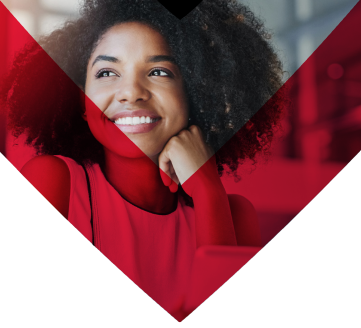
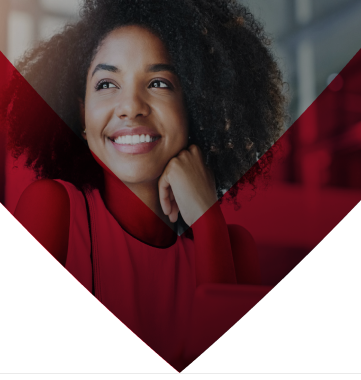
fix bloco pessoas e carreiras

diff --git a/wp-content/themes/tivit/assets/css/style.css b/wp-content/themes/tivit/assets/css/style.css
@@ -860,15 +860,15 @@ html, body, * {
 
 .home-pessoas-e-carreiras {
   background: url("../../assets/images/home/carreiras-mobile.png") no-repeat center center;
-  height: 350px;
+  height: 381px;
   margin-bottom: 38px;
   background-size: cover; }
   .home-pessoas-e-carreiras .home-pessoas-e-carreiras-title {
-    margin-top: 187px; }
+    margin-top: 152px; }
     .home-pessoas-e-carreiras .home-pessoas-e-carreiras-title h2 {
-      font-size: 36px;
+      font-size: 24px;
       line-height: 28px;
-      font-weight: 600;
+      font-weight: bold;
       text-transform: uppercase;
       text-align: center;
       color: white;
@@ -884,7 +884,8 @@ html, body, * {
       font-weight: 600;
       text-transform: uppercase;
       font-size: 16px;
-      transition: all .2s linear; }
+      transition: all .2s linear;
+      padding: unset; }
       .home-pessoas-e-carreiras .botao a img {
         margin-left: 10px;
         margin-bottom: 2px; }
@@ -2829,7 +2830,7 @@ html, body, * {
   display: flex;
   flex-direction: column; }
   .contato-hero .contato-hero-title {
-    margin: 18% auto 0 auto; }
+    margin: 162px auto 0 auto; }
     .contato-hero .contato-hero-title h1 {
       font-size: 16px;
       line-height: 22px;
@@ -2930,9 +2931,11 @@ html, body, * {
     background: url("../../assets/images/contato/banner.png") no-repeat center center;
     background-size: cover;
     height: 100vh; }
-    .contato-hero .contato-hero-title h1, .contato-hero .contato-hero-title h2 {
-      text-align: center;
-      color: white; }
+    .contato-hero .contato-hero-title {
+      margin: 18% auto 0 auto; }
+      .contato-hero .contato-hero-title h1, .contato-hero .contato-hero-title h2 {
+        text-align: center;
+        color: white; }
   .contato-intro {
     margin-top: 50px; }
     .contato-intro p {

diff --git a/wp-content/themes/tivit/assets/scss/home/home.scss b/wp-content/themes/tivit/assets/scss/home/home.scss
@@ -417,15 +417,15 @@
 // Pessoas e Carreiras
 .home-pessoas-e-carreiras{
   background: url('../../assets/images/home/carreiras-mobile.png') no-repeat center center;
-  height: 350px;
+  height: 381px;
   margin-bottom: 38px;
   background-size: cover;
   .home-pessoas-e-carreiras-title{
-    margin-top: 187px;
+    margin-top: 152px;
     h2{
-      font-size: 36px;
+      font-size: 24px;
       line-height: 28px;
-      font-weight: 600;
+      font-weight: bold;
       text-transform: uppercase;
       text-align: center;
       color: white;
@@ -444,6 +444,7 @@
       text-transform: uppercase;
       font-size: 16px;
       transition: all .2s linear;
+      padding: unset;
       img{
         margin-left: 10px;
         margin-bottom: 2px;

diff --git a/wp-content/themes/tivit/assets/scss/contato/contato.scss b/wp-content/themes/tivit/assets/scss/contato/contato.scss
@@ -6,7 +6,7 @@
     display: flex;
     flex-direction: column;
     .contato-hero-title{
-        margin: 18% auto 0 auto;
+        margin: 162px auto 0 auto;
         h1{
             font-size: 16px;
             line-height: 22px;
@@ -161,6 +161,7 @@
         background-size: cover;
         height: 100vh;
         .contato-hero-title{
+            margin: 18% auto 0 auto;
             h1, h2{
                 text-align: center;
                 color: white;

diff --git a/wp-content/themes/tivit/template-pages/home.php b/wp-content/themes/tivit/template-pages/home.php
@@ -366,7 +366,6 @@
 <section class="pessoasCarreiras">
   <div class="d-flex justify-content-center transCarreiras position-absolute"></div>
   <div class="d-flex justify-content-center home-pessoas-e-carreiras">
-  <div id="triangle-down" class=""></div>
     <div class="container">
       <div class="row">
         <div class="col-12">
